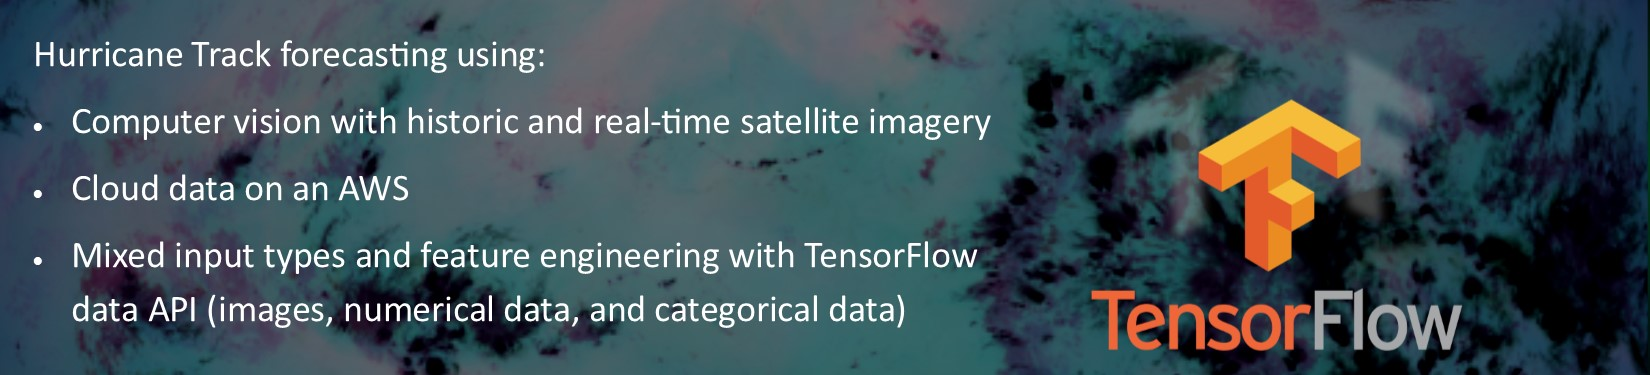
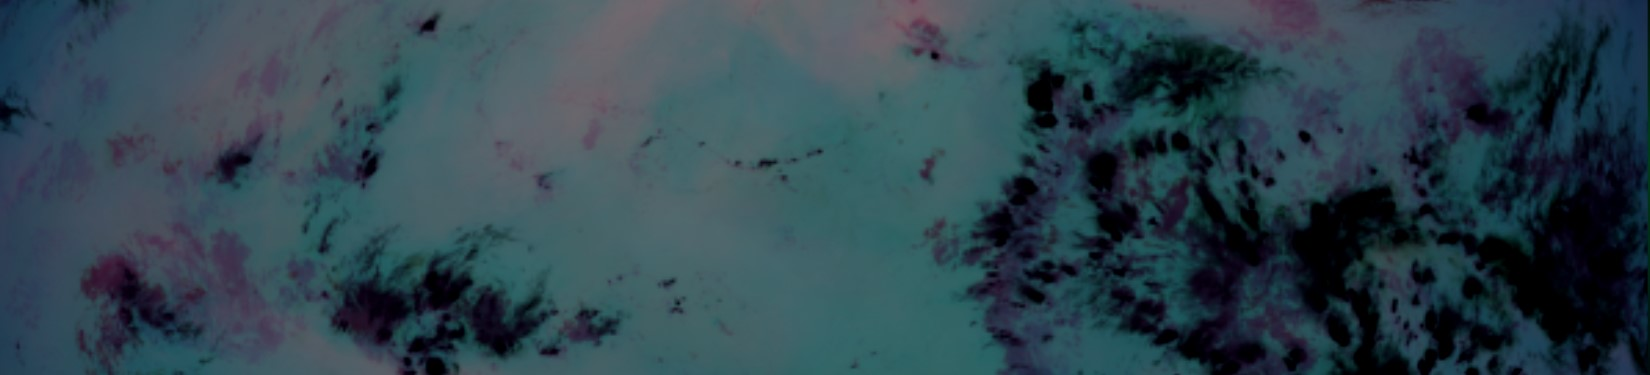
updating images
youtube imagery being replaced with new 2021 imagery

diff --git a/_pages/hurricanes.md b/_pages/hurricanes.md
@@ -2,7 +2,7 @@
 title: Hurricane Track Prediction
 excerpt: This project focuses on the problem of predicting the track of hurricanes using machine learning.
 permalink: /hurricanes/
-image: youtube.jpg
+image: hurricanes.jpg
 background-image: hurricanes.jpg
 ---
 
